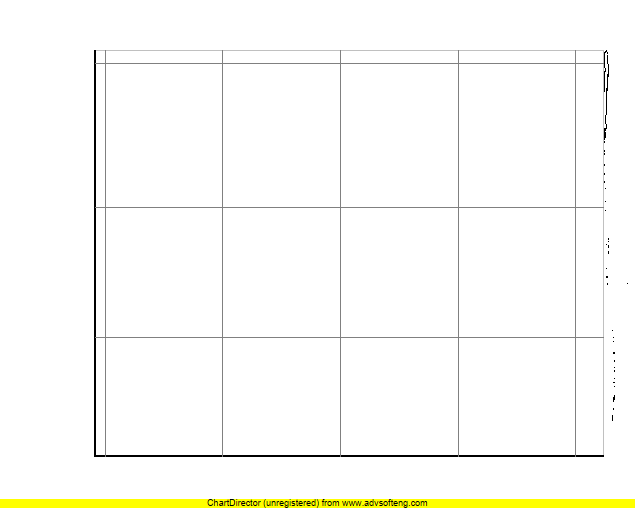
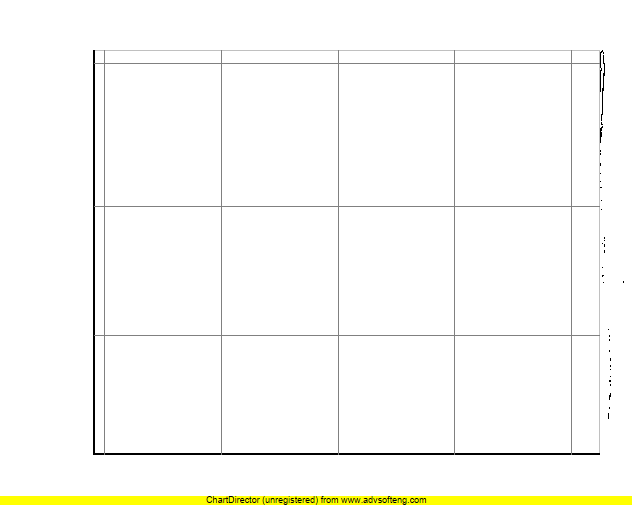
Fixed MoveLeft and MoveRight

Changed region(s): [[0.1503, 0.0891, 0.962, 0.9208], [0.3608, 0.9802, 0.6915, 1.0]]

diff --git a/lib.cpp b/lib.cpp
@@ -7266,13 +7266,16 @@ template<class T> void ChartFrame::MoveLeft(T& event){
     
     double delta;
     
-    delta = (relative_displacement.value) * ((draw_panel->x_max)-(draw_panel->x_min));
+    delta = (relative_displacement.value) * (draw_panel->x_span);
     
-    //update x_min, x_max according to the drag.
-    (draw_panel->x_min) -= delta;
-    (draw_panel->x_max) -= delta;
+    //update lambda_min, lambda_max according to the drag.
+    (((draw_panel->plot)->lambda_min).value) += delta;
+    (((draw_panel->plot)->lambda_max).value) += delta;
     
-    draw_panel->Update_lambda_phi_min_max();
+    ((draw_panel->plot)->lambda_min).normalize();
+    ((draw_panel->plot)->lambda_max).normalize();
+
+    draw_panel->Update_x_y_min_max();
     
     //re-draw the chart
     draw_panel->Draw();
@@ -7287,13 +7290,16 @@ template<class T> void ChartFrame::MoveRight(T& event){
     
     double delta;
     
-    delta = (relative_displacement.value) * ((draw_panel->x_max)-(draw_panel->x_min));
+    delta = (relative_displacement.value) * (draw_panel->x_span);
     
-    //update x_min, x_max according to the drag.
-    (draw_panel->x_min) += delta;
-    (draw_panel->x_max) += delta;
+    //update lambda_min, lambda_max according to the drag.
+    (((draw_panel->plot)->lambda_min).value) -= delta;
+    (((draw_panel->plot)->lambda_max).value) -= delta;
     
-    draw_panel->Update_lambda_phi_min_max();
+    ((draw_panel->plot)->lambda_min).normalize();
+    ((draw_panel->plot)->lambda_max).normalize();
+
+    draw_panel->Update_x_y_min_max();
     
     //re-draw the chart
     draw_panel->Draw();
